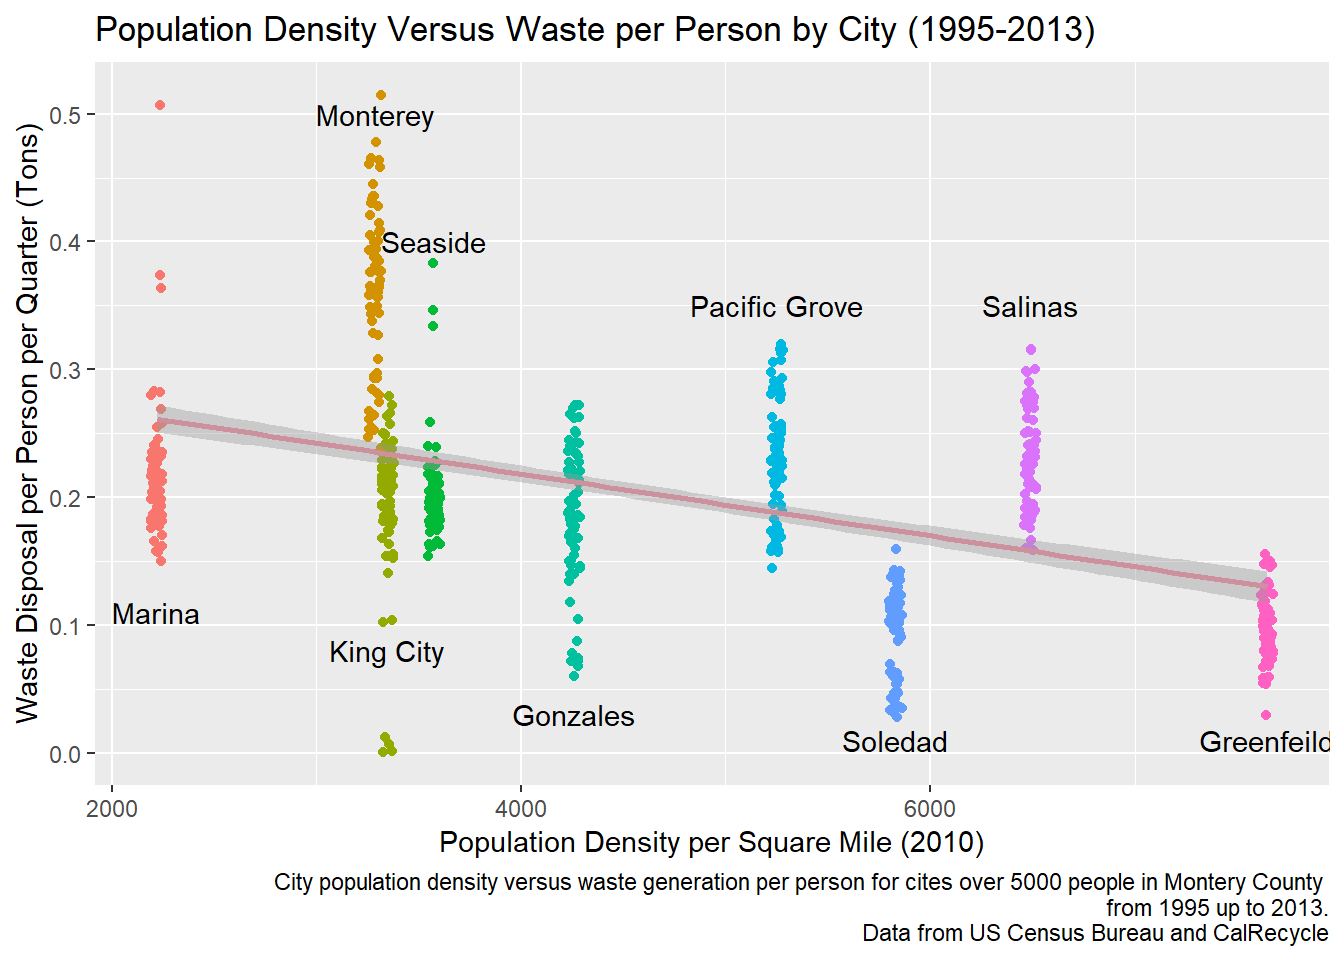
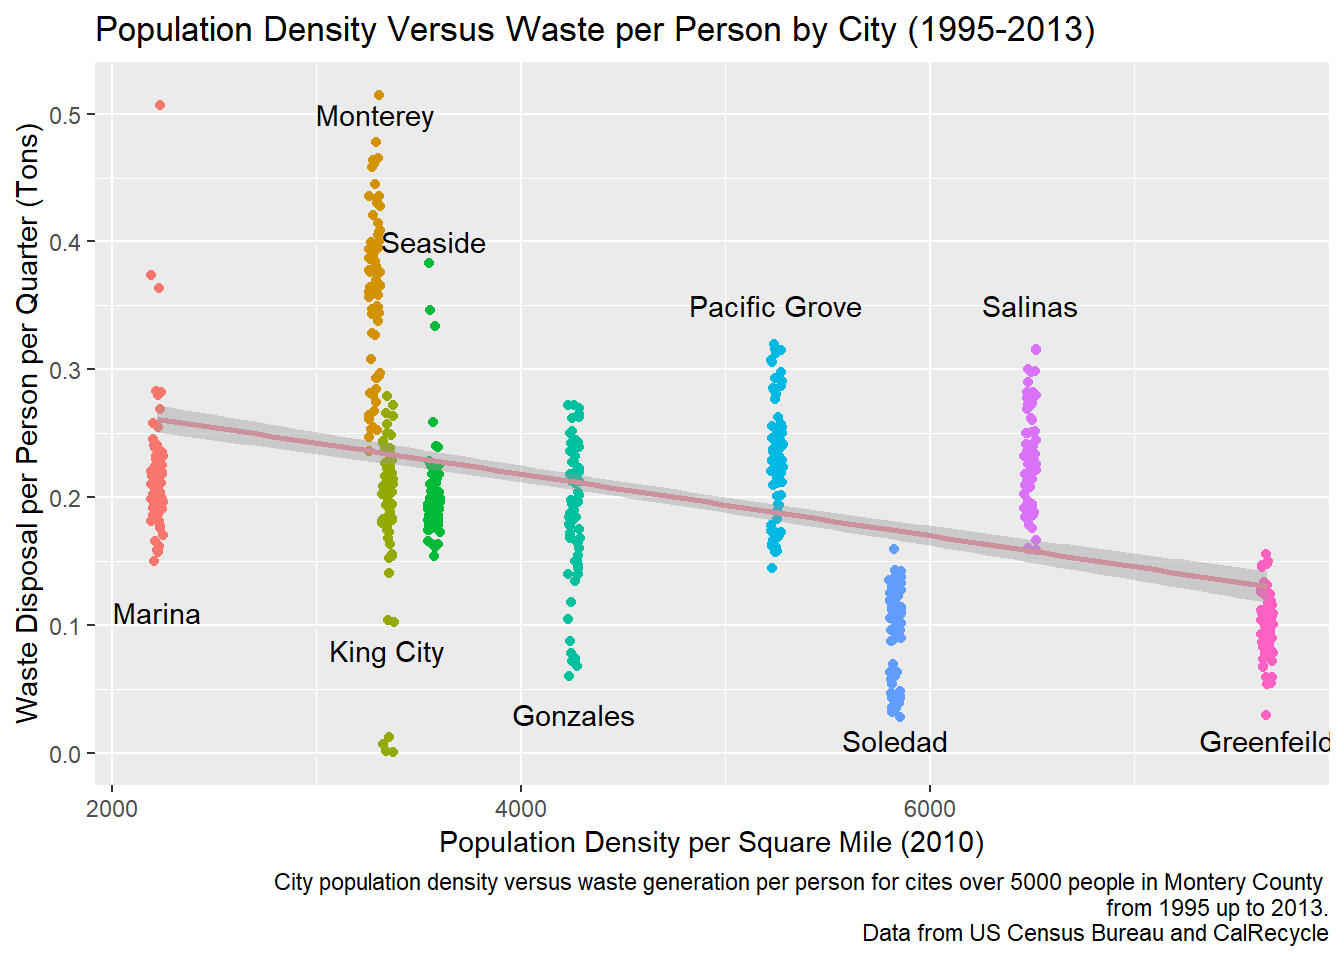
created light and dark versions of visualizations

diff --git a/visualizations.html b/visualizations.html
@@ -259,6 +259,17 @@ ul.task-list li input[type="checkbox"] {
 </div>
 </div>
 </div>
+<div class="dark-content">
+<div class="cell">
+<div class="cell-output-display">
+<div>
+<figure class="figure">
+<p><img src="visualizations_files/figure-html/visualization-q3-dark-1.png" class="img-fluid figure-img" width="672"></p>
+</figure>
+</div>
+</div>
+</div>
+</div>
 <p>The graph shows that waste generation has varied overtime with a high level of variability each year. There seems to be a dip from 2010 to 2015, however this could be due to the end of data on a number of cities.</p>
 <p>In 2013 data for Gonzales, Greenfeild, King City, Salinas, and Soledad is no longer reported and data for the Salinas Valley Solid Waste Authority begins.</p>
 <p>The Salinas Valley Solid Waste Authority operates in Greenfeild, Gonzales, King City, Salinas, Soledad, and part of unincorporated Monterey County. (Salinas Valley Solid Waste Authority) <a href="https://svswa.org/government/formation-service-area/" class="uri">https://svswa.org/government/formation-service-area/</a></p>
